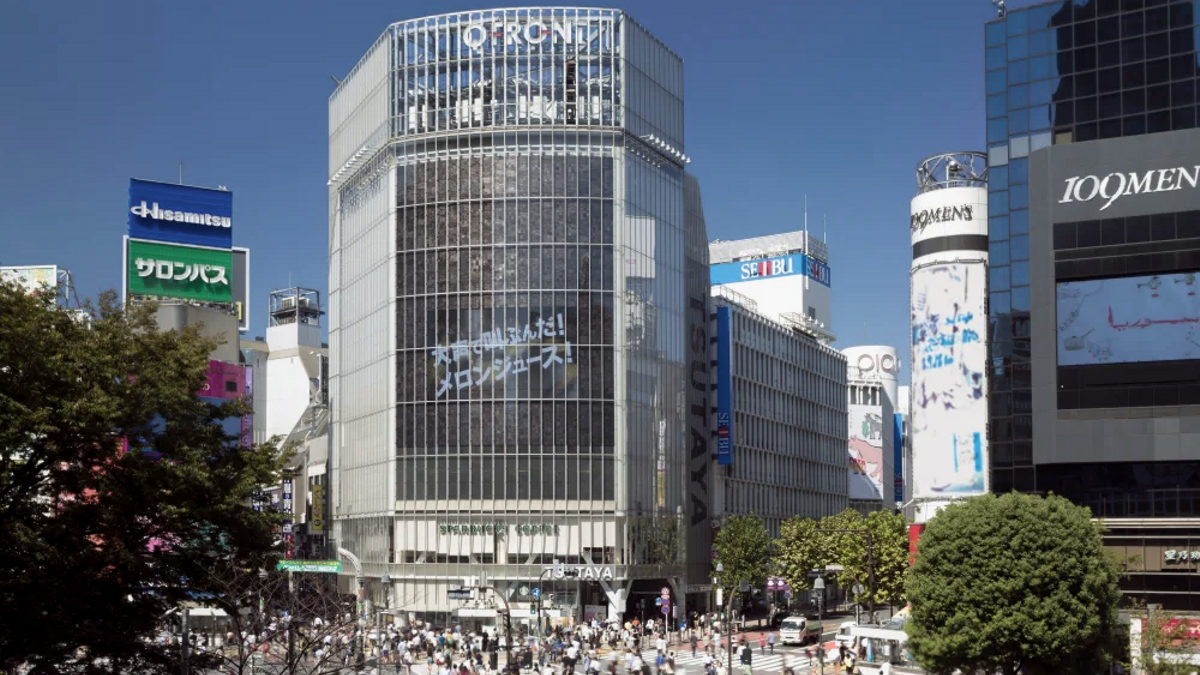
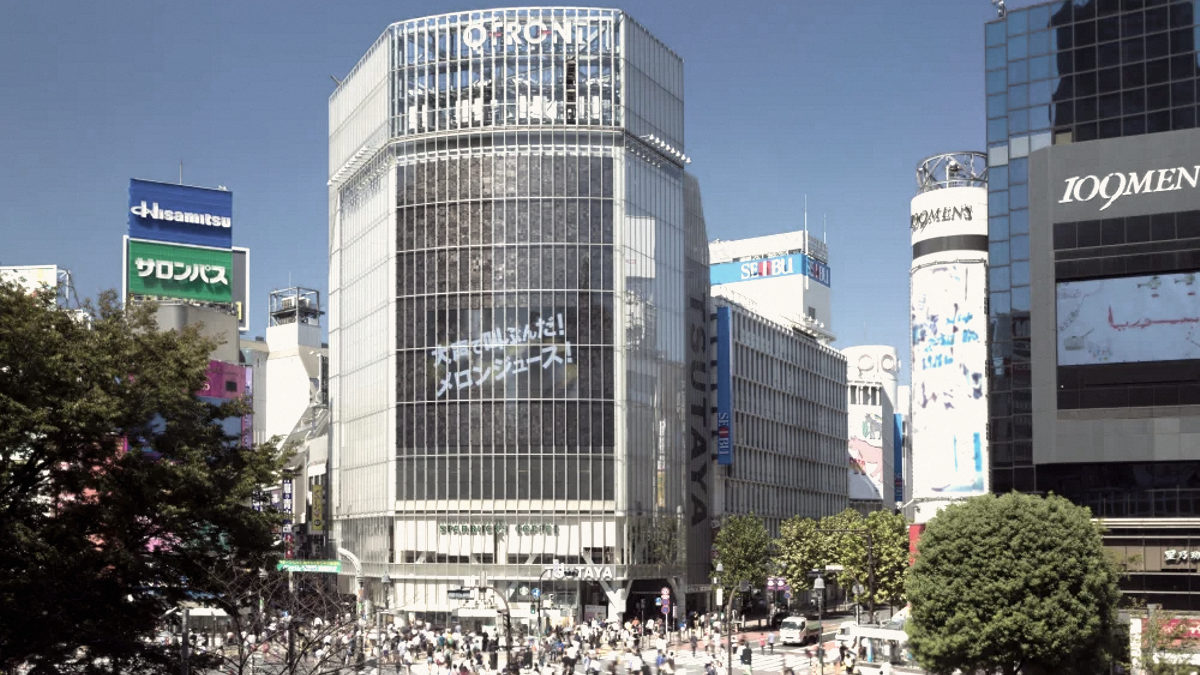
Apply editorial print grade

diff --git a/tool/refresh_article_thumbnails.dart b/tool/refresh_article_thumbnails.dart
@@ -202,12 +202,43 @@ img.Image _normalize(img.Image source) {
     width: _targetWidth,
     height: _targetHeight,
   );
-  return img.adjustColor(
+  var luminanceTotal = 0.0;
+  for (final pixel in cropped) {
+    luminanceTotal +=
+        .2126 * pixel.rNormalized +
+        .7152 * pixel.gNormalized +
+        .0722 * pixel.bNormalized;
+  }
+  final averageLuminance = luminanceTotal / (cropped.width * cropped.height);
+  final brightness = (0.48 / averageLuminance).clamp(.88, 1.12);
+  final graded = img.adjustColor(
     cropped,
-    saturation: .72,
-    contrast: 1.08,
-    brightness: .94,
+    saturation: .58,
+    contrast: 1.1,
+    brightness: brightness,
   );
+
+  for (final pixel in graded) {
+    final luminance =
+        .2126 * pixel.rNormalized +
+        .7152 * pixel.gNormalized +
+        .0722 * pixel.bNormalized;
+    final paperR = .07 + .84 * luminance;
+    final paperG = .07 + .75 * luminance;
+    final paperB = .09 + .58 * luminance;
+    final grain =
+        (((pixel.x * 13 + pixel.y * 7 + (pixel.x * pixel.y) % 17) % 19) - 9) /
+        1100;
+    const inkMix = .14;
+    final red = (pixel.rNormalized * (1 - inkMix) + paperR * inkMix + grain)
+        .clamp(0.0, 1.0);
+    final green = (pixel.gNormalized * (1 - inkMix) + paperG * inkMix + grain)
+        .clamp(0.0, 1.0);
+    final blue = (pixel.bNormalized * (1 - inkMix) + paperB * inkMix + grain)
+        .clamp(0.0, 1.0);
+    pixel.setRgba(red * 255, green * 255, blue * 255, pixel.a);
+  }
+  return graded;
 }
 
 String _decodeHtml(String value) => value

diff --git a/docs/design.md b/docs/design.md
@@ -34,7 +34,7 @@ Material 3 is the interaction and component foundation. Navigation uses `Navigat
 - Map filters: Material `FilterChip` controls styled as record-like bubbles, split into mood and genre rows. Selections use OR within a row and AND across rows, with a clear no-results state.
 - `SaveButton`: a 48px accessible toggle with semantic and tooltip labels.
 - `BottomNavigation`: three primary destinations with text on the active item.
-- `ReadingShelf`: editorial article cards with visible source metadata, a single outbound action, and locally cached social-preview artwork. Every preview is center-cropped to 16:9, softened to the SIDE B palette, and labeled with its publisher; cards never load third-party images at runtime. `Visitor's View` appears before the general shelf so English-language reporting and official travel context are easy to find without creating a separate tourist mode.
+- `ReadingShelf`: editorial article cards with visible source metadata, a single outbound action, and locally cached social-preview artwork. Every preview is center-cropped to 16:9 and passed through the deterministic SIDE B print grade: normalized midtone brightness, restrained saturation, warm ink separation, and subtle paper grain. Each image retains a publisher label; cards never load third-party images at runtime. `Visitor's View` appears before the general shelf so English-language reporting and official travel context are easy to find without creating a separate tourist mode.
 - Reading filters: a single-select row of Material `FilterChip` bubbles for language and editorial angle. Every chip exposes selected state, the result count updates immediately, and empty sections collapse rather than leaving ornamental headings behind.
 - Detail facts and venue signals: bordered factual units, not decorative pills.
 - Google Maps action: a full-width detail CTA that searches the venue's area during the fictional-data phase; production records will add Place IDs for exact destinations.

diff --git a/docs/editorial-sources.md b/docs/editorial-sources.md
@@ -20,7 +20,7 @@ Each article has one language facet and one or more editorial-angle facets. The 
 
 ## Thumbnail refresh
 
-Run `dart run tool/refresh_article_thumbnails.dart` after changing the shelf. The script reads each publisher's current social-image metadata, requires a reasonable source resolution, and writes a 1200×675 JPEG with consistent crop, saturation, contrast, and compression. A failed or undersized source stops the refresh so it can be reviewed rather than silently shipping a poor preview.
+Run `dart run tool/refresh_article_thumbnails.dart` after changing the shelf. The script reads each publisher's current social-image metadata, requires a reasonable source resolution, and writes a 1200×675 JPEG with consistent crop and compression. Its deterministic print grade normalizes midtone brightness before applying restrained saturation, warm shadow/highlight separation, and subtle paper grain. A failed or undersized source stops the refresh so it can be reviewed rather than silently shipping a poor preview.
 
 If a page has no usable social preview, generate an original SIDE B editorial image from the article's verified subject and facets only. Do not imitate a named artist, reproduce the article's photography, or invent a venue interior. Normalize it with `dart run tool/refresh_article_thumbnails.dart --normalize-ai <source-image> <article-id>`, set `thumbnailKind` to `ArticleThumbnailKind.aiGenerated`, and keep the visible `AI VISUAL` label. The shared `ai-fallback.jpg` is only the last-resort runtime fallback for a missing asset.
 
